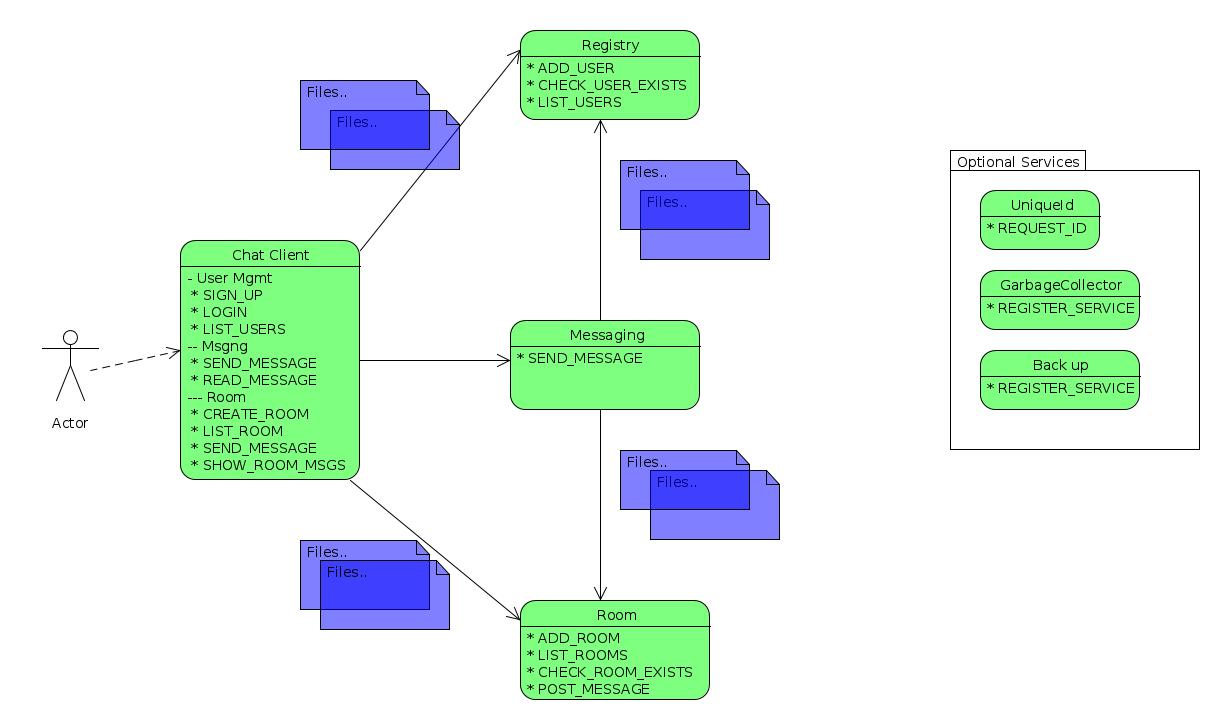
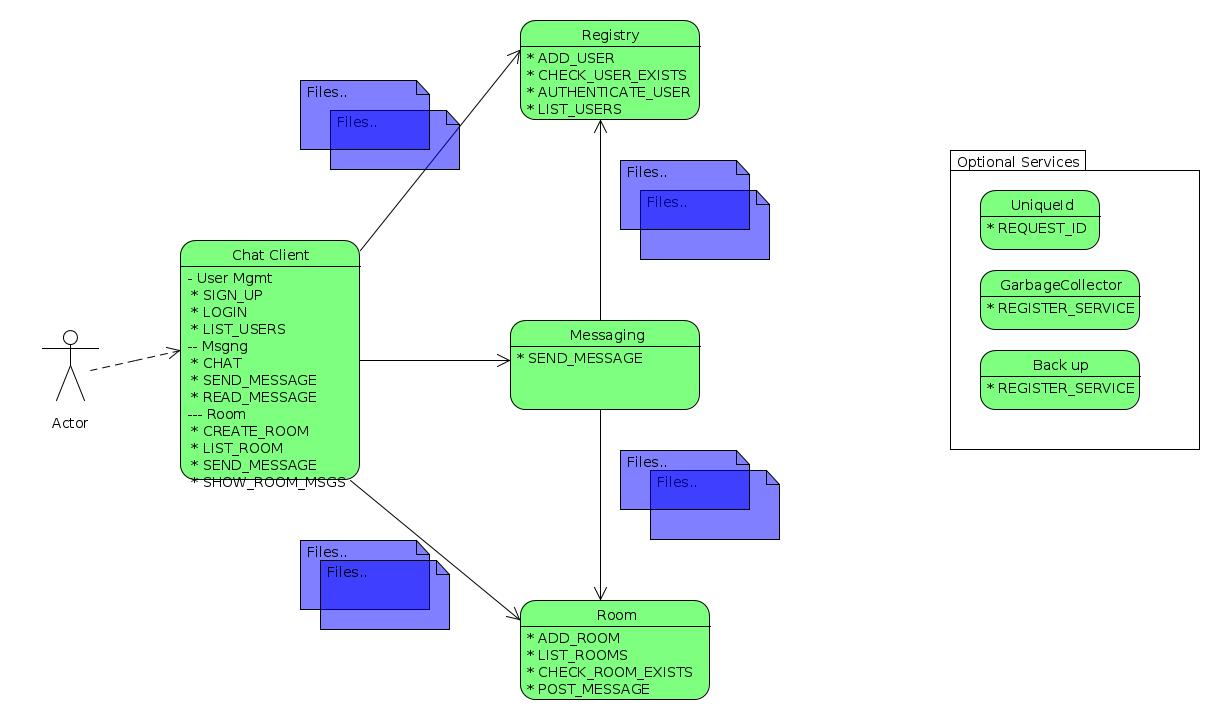
some more corrections

Changed region(s): [[0.1557, 0.4889, 0.2803, 0.6722], [0.4049, 0.0306, 0.5918, 0.1833]]

diff --git a/README.md b/README.md
@@ -51,8 +51,8 @@ This service is used to manage users and their passwords which will be used when
 
 __List of Operations__
 1. ADD_USER
-2. CHECK_USER_EXISTS
-3. AUTHENTICATE_USER
+2. CHECK_USER_EXISTS  
+3. AUTHENTICATE_USER  
 4. LIST_USERS
 
 ###### Example Input Format:
@@ -69,12 +69,12 @@ ERROR_NO_USER
 This is the core service of this chat system. For each request this service will check the existence of each parties involved and deliver the content in the destination user's mail box.
 **${MESSAGING_SERVICE_DIRECTORY}** is defined and all messaging requests should land here. The messaging service will publish the **${MAIL_BOX_DIRECTORY}** variable which will have the mailboxes for users where they can fetch the incoming messages.
 
-__List of Operations__
+__List of Operations__  
 1. SEND_MESSAGE
 
 ###### Sample mail box file and directories :
-${MAIL_BOXS_DIRECTORY}/<username>/msg1  
-${MAIL_BOXS_DIRECTORY}/<username>/msg2  
+${MAIL_BOX_DIRECTORY}/<username>/msg1  
+${MAIL_BOX_DIRECTORY}/<username>/msg2  
 
 ###### Sample Input file Format:
 SEND MESSAGE  
@@ -86,10 +86,10 @@ MSG:
 This service adds chat room functionality. The service will monitor the directory in the variable **${ROOM_SERVICE_DIRECTORY}**.   
 This Service will create separate directories for each room and maintain a main chat file in its room directory. For every POST_MESSAGE action, the service will append the contents to the main chat message with the senders identity.
 
-__List of Operations__
+__List of Operations__  
 1. ADD_ROOM
-2. LIST_ROOM
-3. CHECK_ROOM_EXISTS
+2. LIST_ROOM  
+3. CHECK_ROOM_EXISTS  
 4. POST_MESSAGE
 
 ###### Sample File and Directories
@@ -101,31 +101,33 @@ ${ROOM_SERVICE_DIRECTORY}/rooms/KI08/main-chat-file
 
 
 ##### 1.4.3.4 Chat Client:
-This is the application that will interact with users and speak with other services in the backend. This can be a basic menu based application where users will be presented with the list of options to interact with the system. All basic operations are listed in the services design diagram.  
+This is the application that will interact with users and speak with other services in the back-end. This can be a basic menu based application where users will be presented with the list of options to interact with the system. All basic operations are listed in the services design diagram.  
 To start with chat client can have polling mechanism to retrieve the incoming messages and the chat room updates but it can be enhanced in the future.
 
-__List of Operations__
+__List of Operations__  
 --User Management
 1.  SIGN_UP
 2.  LOGIN
-3.  LIST_USERS
--- Messaging
-4.  SEND_MESSAGE
-5.  READ_MESSAGE
-6.  CHAT
+3.  LIST_USERS  
+-- Messaging  
+4.  CHAT  
+5.  SEND_MESSAGE  
+6.  READ_MESSAGE  
 -- Room
 7.  CREATE_ROOM
 8.  LIST_ROOM
-9.  SEND_MESSAGE
-10. ENTER_ROOM
+9.  SEND_MESSAGE  
+10. ENTER_ROOM  
 
 
 ##### 1.4.3.5 Unique Id Service *[optional]*:
 This service is responsible for generating unique identifiers when requested. The returned identifiers will be used in the file names created by other services when requesting and responding to the service requests. ${UNIQUE_ID_SERVICE_DIRECTORY} is defined and any request in this directory will be responded with a unique number. This is to create a unique file name across the chat system.
 
-Note: Each service should make sure that they create a unique request file when accessing this service too. Ex: request_<service_id>_001, request_<service_id>_002.
+Note:   
+- Each service should make sure that they create a unique request file when accessing this service too. Ex: request_<service_id>_001, request_<service_id>_002.
+- If a sequence number is used, then the service should save its state when going for a temporary shut down, So it can recover its previous sequence number when it restarts.
 
-__List of Operations__
+__List of Operations__   
 1. REQUEST_ID
 
 ##### 1.4.3.6 Garbage Collector Service *[optional]*:
@@ -133,7 +135,7 @@ Since communication is happening via files, it is possible that we might end up 
 **< Service_name >:Timeout:Path**  
 Garbage collector will then look for all files in this path and if they exceed the timeout then this service will delete those files.
 
-__List of Operations__
+__List of Operations__  
 1. REGISTER_SERVICE
 
 ##### 1.4.3.7 Back Up Service *[optional]*:
@@ -141,5 +143,5 @@ This service give the backup feature to the chat system and can be used to backu
 ###### Example:
 **< Service_name >:BackupPeriod:< comma separated file list. >**
 
-__List of Operations__
-1. REGISTER_SERVICE
+__List of Operations__  
+1. REGISTER_SERVICE 
